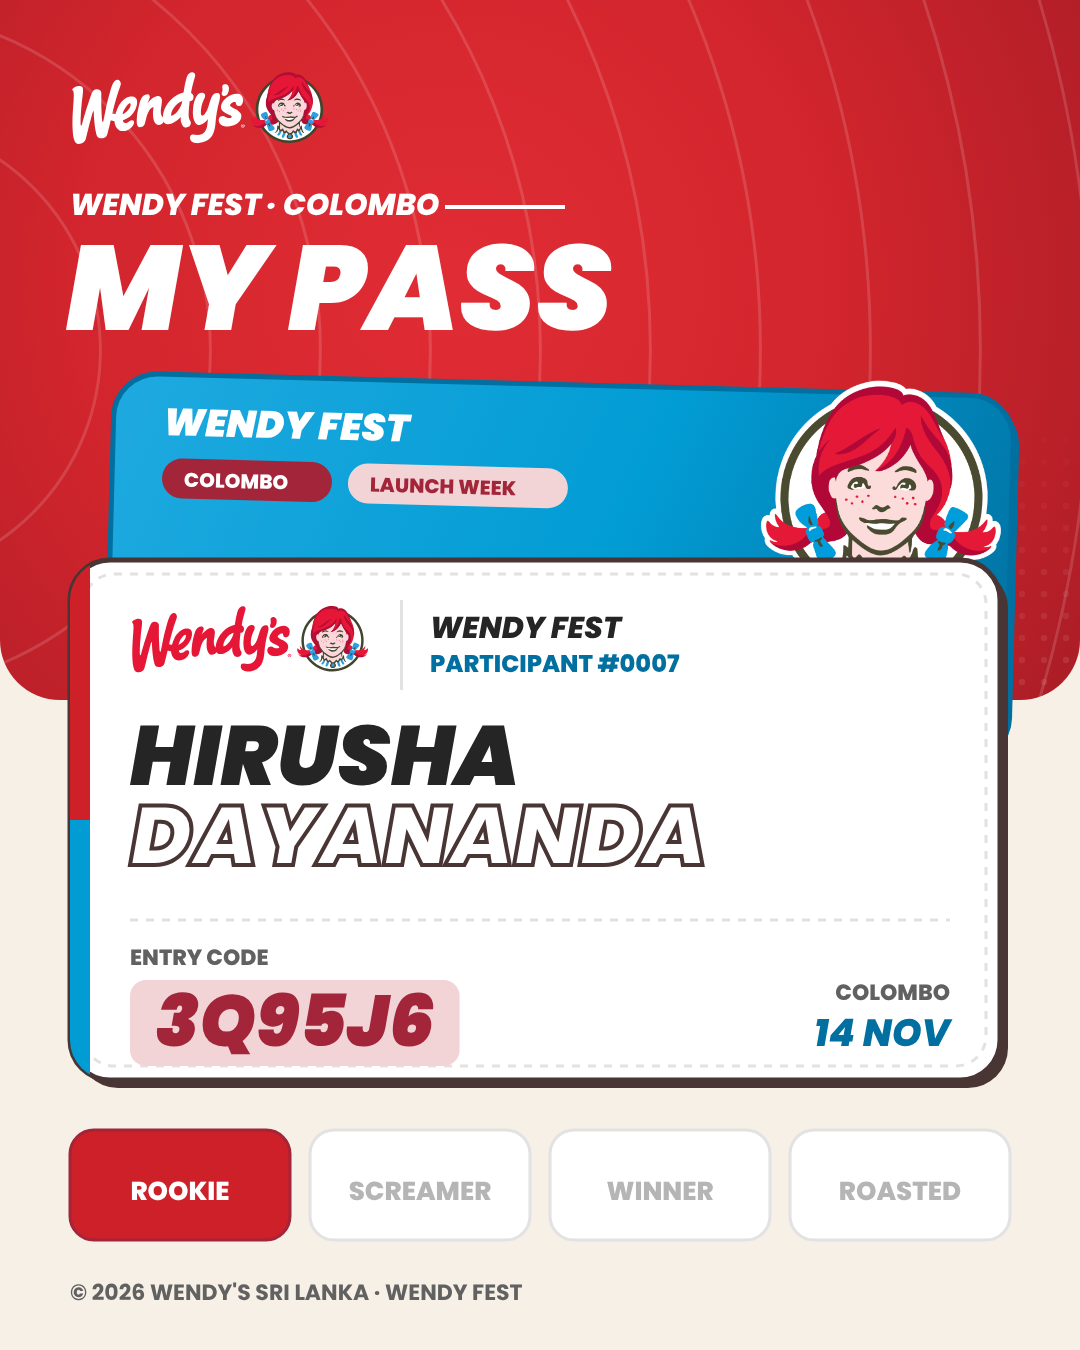
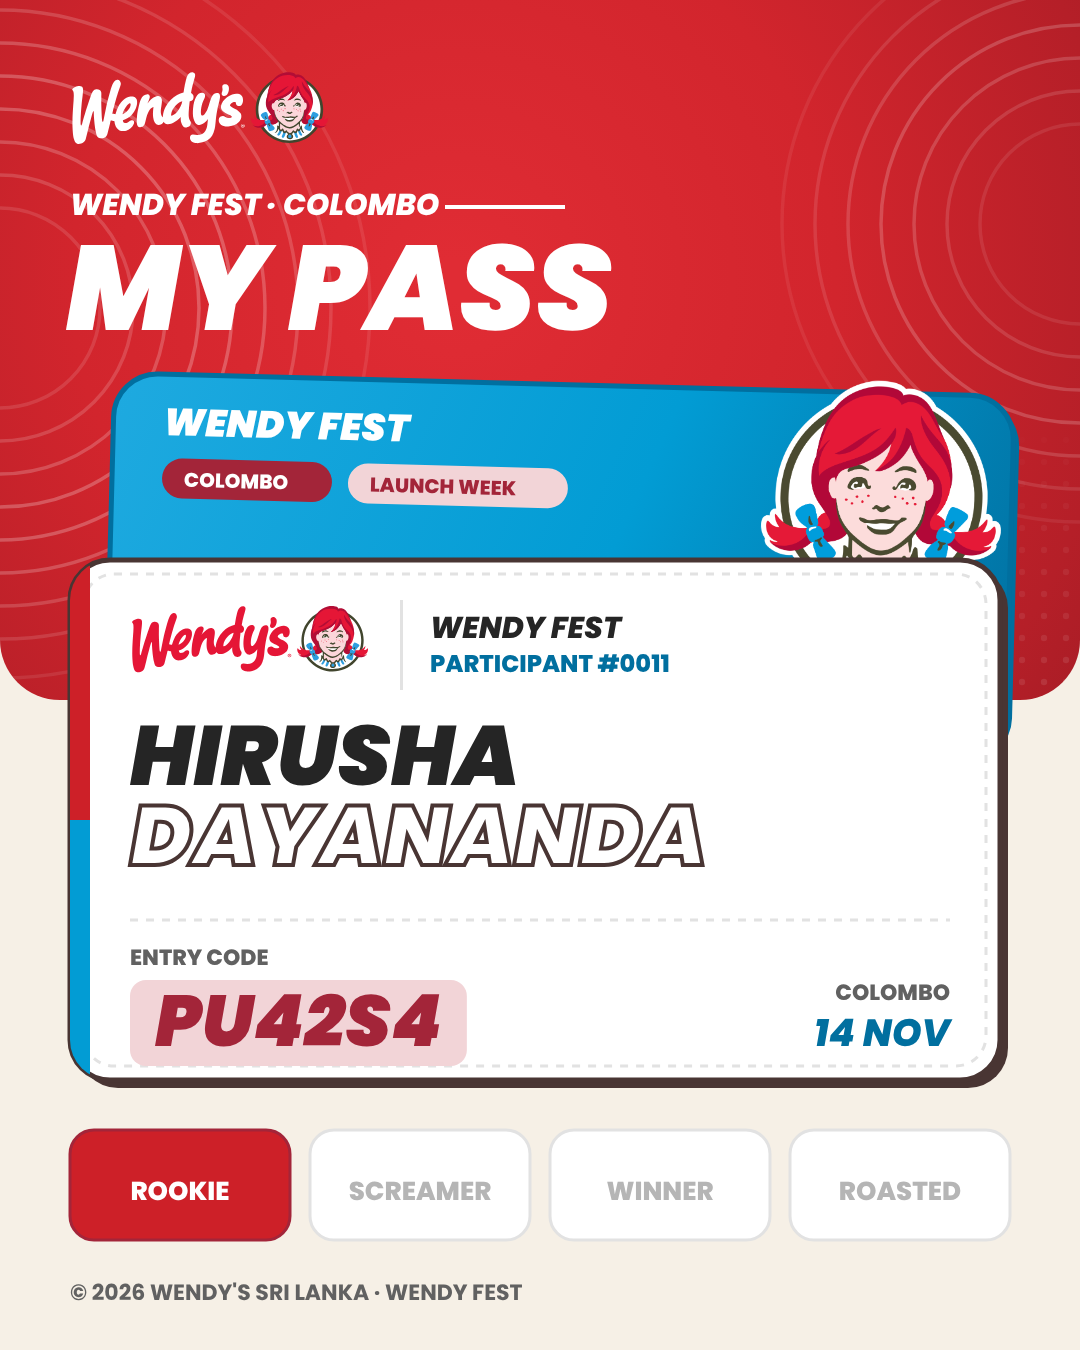
Headers: edge-only half-ring clusters (left and right) on all screens and download cards
Claude-Session: https://claude.ai/code/session_015MHPvZ3kkn8jw5YatKY7r4

diff --git a/public/css/guest.css b/public/css/guest.css
@@ -16,7 +16,8 @@ button, input, select { font:inherit; }
 /* ---- header ---- */
 .hdr { position:relative; color:#fff; padding:16px 22px 26px; border-radius:0 0 26px 26px; overflow:hidden; flex:none;
   background: linear-gradient(180deg, rgba(0,0,0,.10) 0%, rgba(0,0,0,0) 28%, rgba(0,0,0,0) 62%, rgba(0,0,0,.22) 100%), radial-gradient(80% 70% at 42% 40%, #E02C34 0%, #D2252D 38%, #B51F28 68%, #8C1720 100%); }
-.hdr::before { content:""; position:absolute; inset:0; pointer-events:none; opacity:.2; background:repeating-radial-gradient(circle at var(--rx,0%) var(--ry,45%), transparent 0 13px, #fff 13px 14.4px); mask:radial-gradient(circle at var(--rx,0%) var(--ry,45%), transparent 0 36px, rgba(0,0,0,.35) 70px, rgba(0,0,0,.95) 150px, rgba(0,0,0,.4) 230px, transparent 300px); -webkit-mask:radial-gradient(circle at var(--rx,0%) var(--ry,45%), transparent 0 36px, rgba(0,0,0,.35) 70px, rgba(0,0,0,.95) 150px, rgba(0,0,0,.4) 230px, transparent 300px); }
+.hdr::before { content:""; position:absolute; inset:0; pointer-events:none;
+  background: url("/assets/rings-left.svg") 0 44% / 300px 300px no-repeat, url("/assets/rings-right.svg") 100% 32% / 300px 300px no-repeat; }
 .hdr::after { content:""; position:absolute; right:-4px; bottom:-4px; width:190px; height:170px; pointer-events:none; opacity:.28; background:radial-gradient(rgba(255,255,255,.9) 1.2px, transparent 1.8px) 0 0/8px 8px; mask:radial-gradient(ellipse at 100% 100%, #000 0%, rgba(0,0,0,.5) 35%, transparent 68%); -webkit-mask:radial-gradient(ellipse at 100% 100%, #000 0%, rgba(0,0,0,.5) 35%, transparent 68%); }
 .hdr > * { position:relative; z-index:1; }
 .top { display:flex; justify-content:space-between; align-items:center; height:40px; }

diff --git a/public/js/app.js b/public/js/app.js
@@ -44,8 +44,10 @@ function redHeader(ctx, W, H) {
   const g = ctx.createRadialGradient(W * .42, H * .4, 20, W * .42, H * .4, W * .9);
   g.addColorStop(0, "#E02C34"); g.addColorStop(.38, "#D2252D"); g.addColorStop(.68, "#B51F28"); g.addColorStop(1, "#8C1720");
   ctx.fillStyle = g; ctx.fillRect(0, 0, W, H);
-  ctx.lineWidth = 3;
-  for (let r = 100; r < 820; r += 36) { const t = Math.min(1, Math.max(0, (r - 100) / 300)) * Math.min(1, Math.max(0, (820 - r) / 320)); ctx.strokeStyle = `rgba(255,255,255,${(.22 * t).toFixed(3)})`; ctx.beginPath(); ctx.arc(0, H * .45, r, 0, 7); ctx.stroke(); }
+  ctx.lineWidth = 3.5;
+  const cluster = (cx, cy, radii, peak) => radii.forEach((r, i) => { const t = i / (radii.length - 1); const op = Math.max(.05, Math.min(peak, peak * (.35 + .65 * (1 - Math.abs(t - .45) / .55)))); ctx.strokeStyle = `rgba(255,255,255,${op.toFixed(2)})`; ctx.beginPath(); ctx.arc(cx, cy, r, 0, 7); ctx.stroke(); });
+  cluster(0, H * .44, [100, 133, 166, 199, 232, 265, 298, 331, 370], .26);
+  cluster(W, H * .32, [100, 133, 166, 199, 232, 265, 298], .2);
   ctx.fillStyle = "rgba(255,255,255,.28)";
   for (let y = H - 260; y < H; y += 22) for (let x = W - 300; x < W; x += 22) { const d = Math.hypot(W - x, H - y) / 300; if (d < 1) { ctx.globalAlpha = .4 * (1 - d); ctx.beginPath(); ctx.arc(x, y, 3.2, 0, 7); ctx.fill(); } }
   ctx.globalAlpha = 1;
